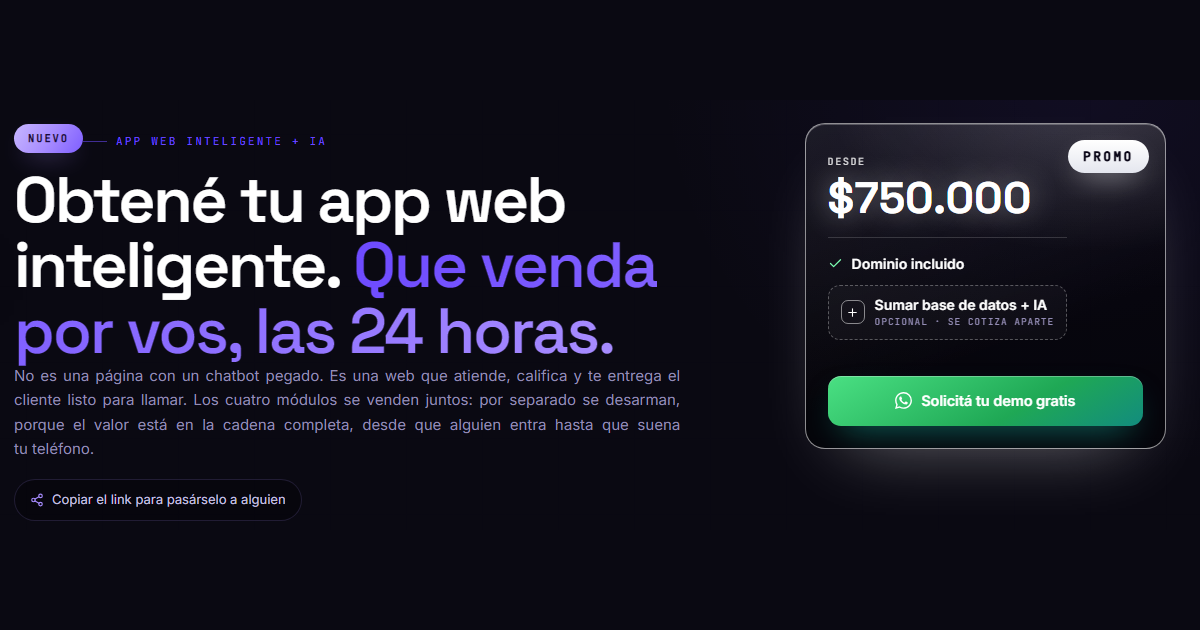
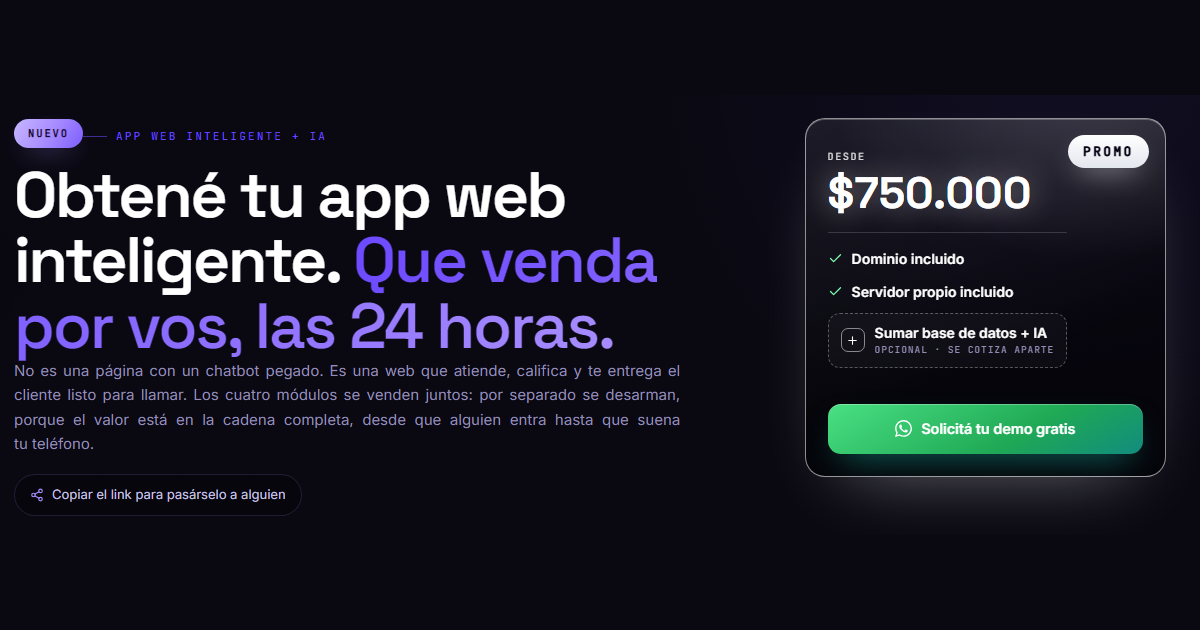
La promo incluye tambien servidor propio

diff --git a/src/App.jsx b/src/App.jsx
@@ -3232,6 +3232,7 @@ function IncluyeIA({ t, extra, setExtra }) {
   return (
     <ul className="s2b-ia-incluye">
       <li><Check size={15} /> {t("Dominio incluido", "Domain included")}</li>
+      <li><Check size={15} /> {t("Servidor propio incluido", "Your own server included")}</li>
       {setExtra ? (
         <li>
           <label className={"s2b-ia-extra" + (extra ? " is-on" : "")}>
